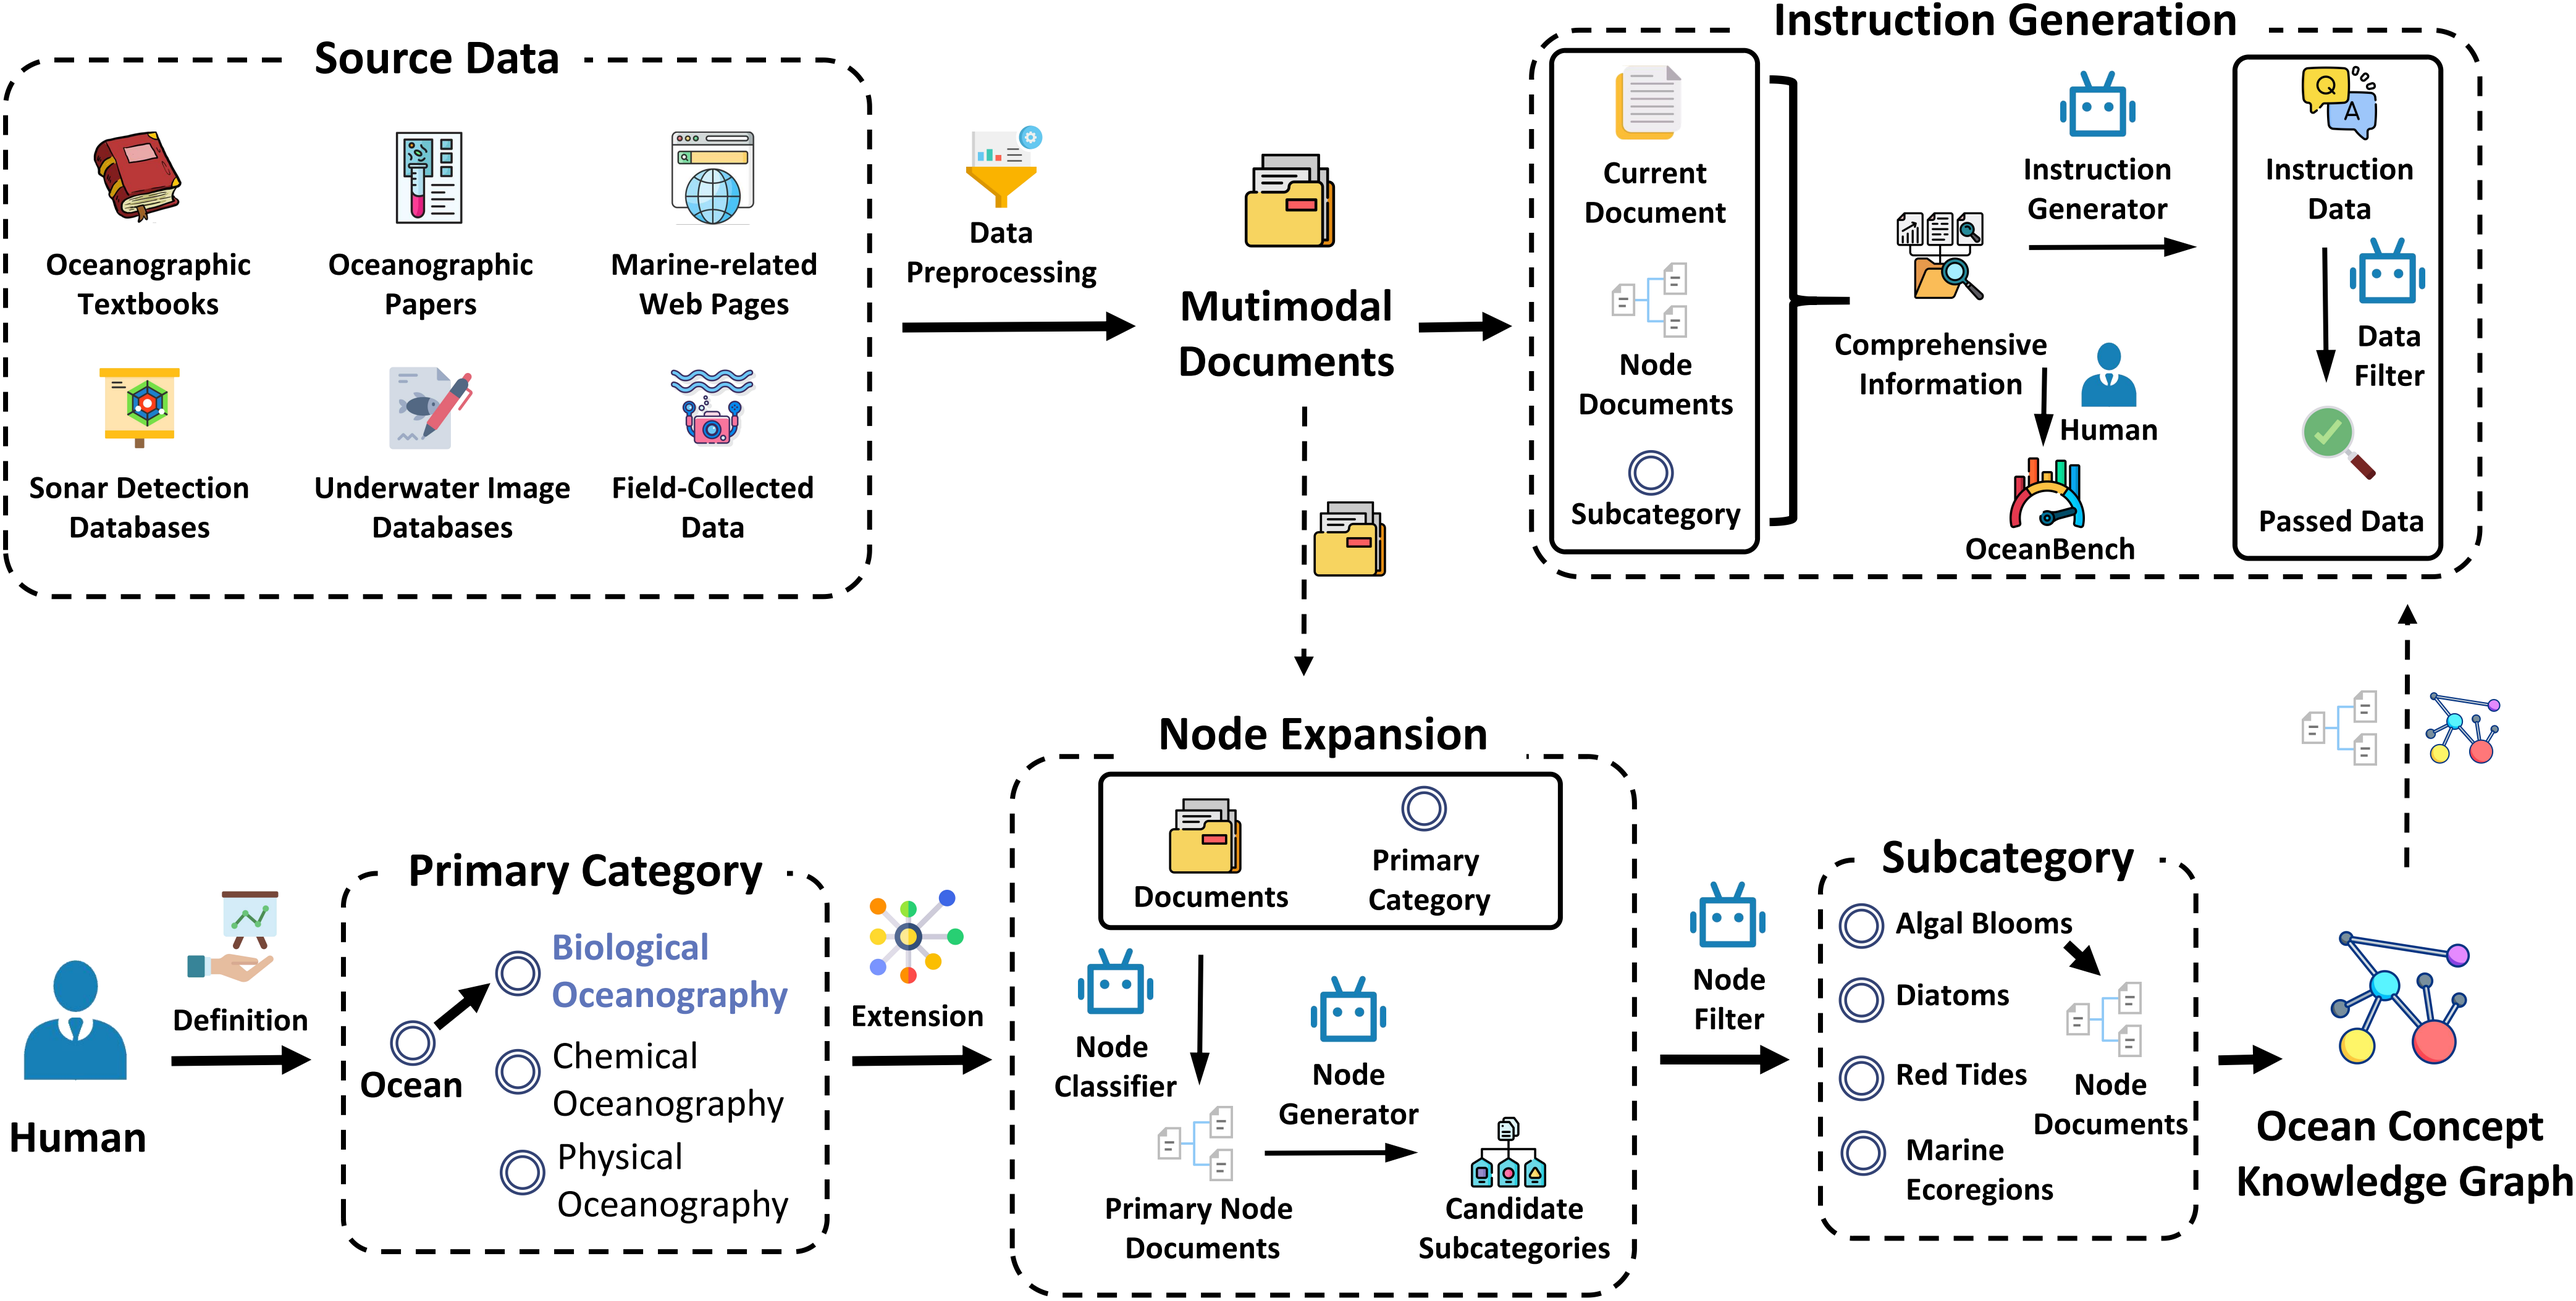
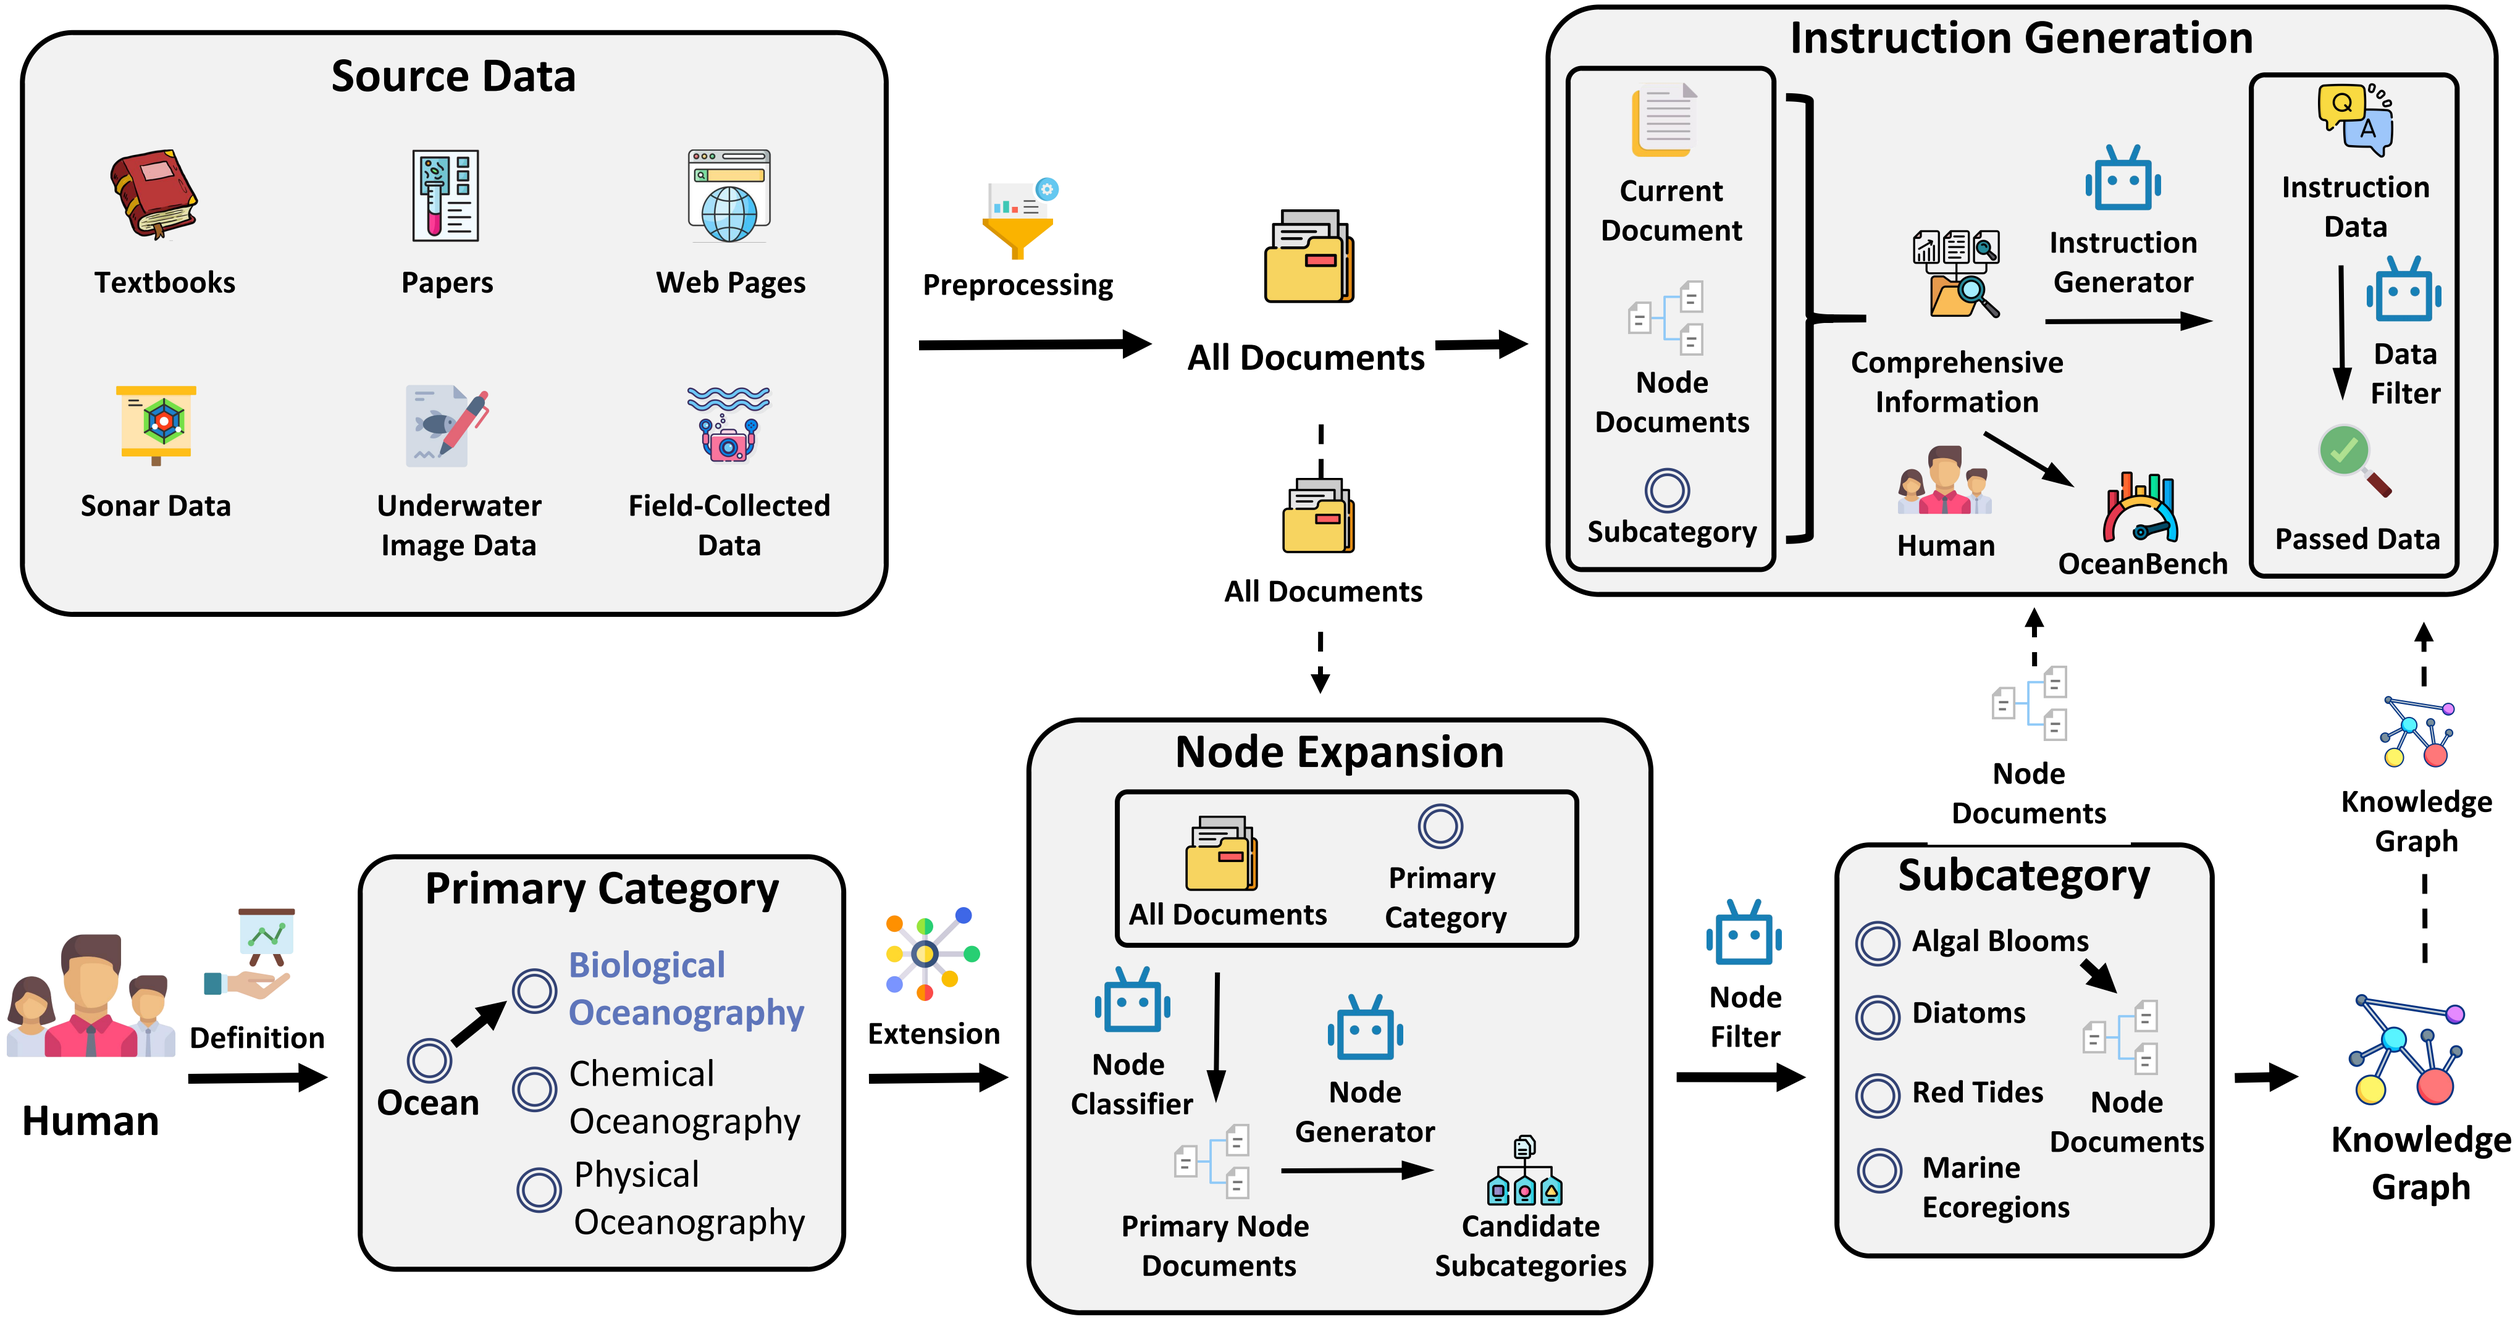
NEW

diff --git a/README.md b/README.md
@@ -64,36 +64,20 @@ ds = load_dataset(
 ```
 # 📚 DataSets
 ### 📘 Dataset Summary
-|                              | # images | # docs | # tokens | Download |
-|------------------------------|----------|--------|----------|----------|
-| OceanCorpus                  | 571M     | 101.2M | 43B      | [🤗 Download](https://huggingface.co/datasets/zjunlp) |
-| OceanInstruction (textual data)       | -        | 77.7M  | 33B      | [🤗 Download](https://huggingface.co/datasets/zjunlp) |
-| OceanInstruction (visual data)       | 29.9M    | 7.3M   | 2.4B     | [🤗 Download](https://huggingface.co/datasets/zjunlp) |
-| OceanInstruction (task-specific data) | 29.9M    | 7.3M   | 2.4B     | [🤗 Download](https://huggingface.co/datasets/zjunlp) |
-| OceanBench                   | 29.9M    | 7.3M   | 2.4B     | [🤗 Download](https://huggingface.co/datasets/zjunlp) |
+|                              | # images | # samples | # tokens | Download |
+|------------------------------|----------|-----------|----------|----------|
+| OceanCorpus                  | -        | 101.2M    | 43B      | [🤗 Download](https://huggingface.co/datasets/zjunlp) |
+| OceanInstruction (textual data)       | -        | 77.7M     | -        | [🤗 Download](https://huggingface.co/datasets/zjunlp) |
+| OceanInstruction (visual data)       | 29.9M    | 7.3M      | -        | [🤗 Download](https://huggingface.co/datasets/zjunlp) |
+| OceanInstruction (task-specific data) | 29.9M    | 7.3M      | -        | [🤗 Download](https://huggingface.co/datasets/zjunlp) |
+| OceanBench                   | 29.9M    | 7.3M      | -        | [🤗 Download](https://huggingface.co/datasets/zjunlp) |
 
 More details about these datasets and our processing steps [can be found in our paper](https://arxiv.org/abs).
 ### 🏗 Dataset Structure
 - **image** : high-resolution image croped from oceanography paper/webstite/dataset (open-assess)
 
 ### 🔏 License
-This dataset is released under
-[Creative Commons Attribution–NonCommercial–ShareAlike 4.0 International (CC BY-NC-SA 4.0)](https://creativecommons.org/licenses/by-nc-sa/4.0/legalcode)
-
-- **NonCommercial**
-  - This dataset may not be used for commercial purposes. Prohibited uses include, but are not limited to, selling the dataset, incorporating it into commercial products or services, or using it in workflows whose primary purpose is to obtain direct commercial advantage.
-
-- **Share Alike**
-  - If you remix, transform, or build upon this dataset, or distribute adapted versions of it, you must release your contributions under the same CC BY-NC-SA 4.0 license.
-
-- **Important Notes**
-
-  - The source papers for this dataset are published under open-access licenses, and the data are likewise subject to the licensing terms of the original papers.
-
-  - Models trained using this dataset should respect the NonCommercial restriction when used or redistributed.
-
-  - Users are responsible for ensuring compliance with the license in their specific use cases.
-
+This dataset is released under MIT License.
 
 # 🚩 Citation
 
